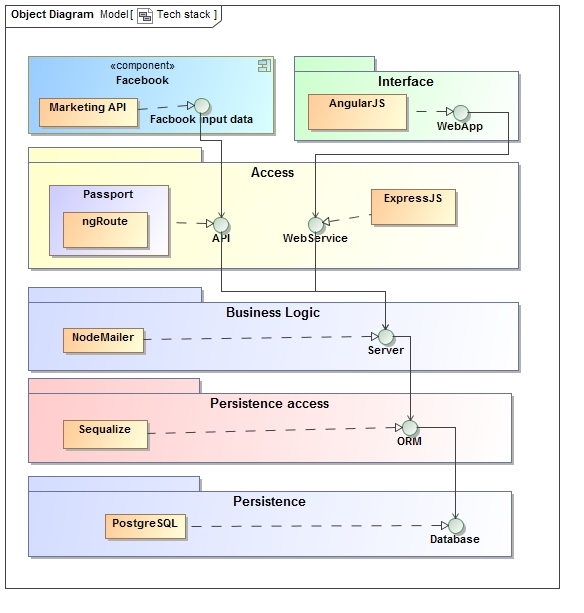
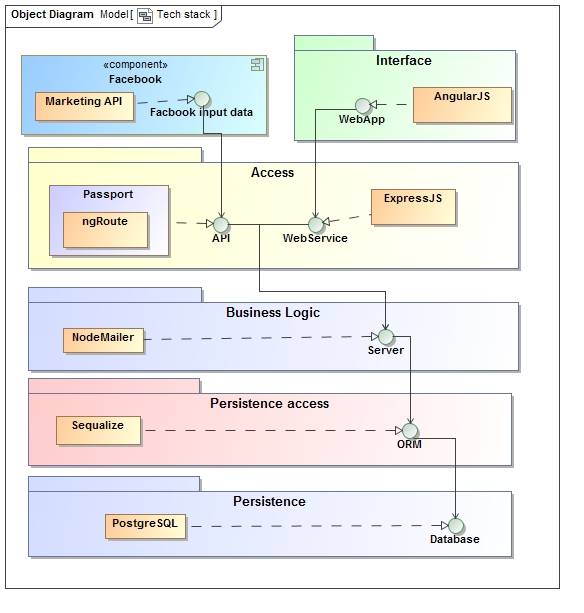
Updated diagrams

Changed region(s): [[0.0308, 0.062, 0.4932, 0.248], [0.4932, 0.031, 0.8938, 0.248], [0.0308, 0.6509, 0.8938, 0.7749]]

diff --git a/Documentation/ArchitectureSpecification/architectureSpecification.tex b/Documentation/ArchitectureSpecification/architectureSpecification.tex
@@ -40,7 +40,7 @@
 			\huge{
 			Architectural Requirements, Initial Architecture Design and Non-Functional Requirements\\
 			}
-			
+
 			\line(1,0){300}\\
 			[0.2cm]
 			\LARGE{Project: Insurance profiling from social media\\
@@ -51,8 +51,8 @@
 			\large
 			{
 			\begin{itemize}
-				\item 13054903 - Charl Jansen van Vuuren 
-				\item 10297902 - Bernhard Schuld      
+				\item 13054903 - Charl Jansen van Vuuren
+				\item 10297902 - Bernhard Schuld
 				\item 13044924 - Kevin Heritage
 				\item 13176545 - Quinton Weenink\\
 			\end{itemize}
@@ -68,17 +68,17 @@
 		%\centering
 		%\includegraphics[{imagename}
 		%\end{figure}\
-			
+
 	\end{titlepage}
 	\cleardoublepage
 	\tableofcontents
 	\cleardoublepage
-	
+
 		% Start of the revision history table
 	\begin{versionhistory}
   		\vhEntry{1.0}{27.05.2016}{CJvV,KH,QW}{Created}
   		\vhEntry{1.1}{27.07.2016}{CJvV,KH,QW}{Grammar errors, Introduction, Scope, Vision, Access channel, Quality requirements, Integration Requirements (API, Protocols, API Quality requirements), Architectural tactics(Security) and Architectural pattern changes}
-	\end{versionhistory}	
+	\end{versionhistory}
 
 
 %Quinton addition (Maybe just have a look at this and see if you can use it) This should be slightly more revised
@@ -86,7 +86,7 @@
 \section{Introduction}
  Insurance profiling and risk analysis often require large amounts of data to generate in-depth profiles, our project aims to eliminate the need for vast amounts of data gathering by utilising a user's social media information, based on advertisement form.
 
-\section{Scope of system} 
+\section{Scope of system}
 The project as it is currently specified is an application that will allow insurance companies the ability to get data from lead data provided via lead advertisements on Facebook.
 A user would fill in a Facebook advertisement to purchase short term insurance based on Facebook's advertisement analytics. \\
 This data will be used to charge the users for the insurance that they have signed up for while also providing the application with some basic data that can later be used to analyse the users and the data they provided. \\
@@ -100,7 +100,7 @@ The primary focus of this project is to generate risk statistics based on social
 
 \section{Architectural Requirements}
 	\subsection{Access channel requirements}
-	User: 
+	User:
 	\begin{enumerate}
 		\item A user will fill in an advertisement form on our Facebook with the information specified and submit this data.
 		\item The necessary data will be gathered and saved in the database.
@@ -108,7 +108,7 @@ The primary focus of this project is to generate risk statistics based on social
 		\item A sales person will contact the specified user with further instructions.
 	\end{enumerate}
 	\clearpage
-	Analyst: 
+	Analyst:
 	\begin{enumerate}
 		\item An analyst would log into the system with a required username and password authorization
 		\item Selection criteria to generate a report will be presented to the analyst.
@@ -122,8 +122,8 @@ The primary focus of this project is to generate risk statistics based on social
 		\item The website will be accessible via the majority of operating systems if such an operating system has access to a supported web-browser.
 		\item Facebook advertisement integration will be accessible via the normal Facebook access channels.
 	\end{itemize}
-	 
-	
+
+
 	\subsection{Quality Requirements}
 		\subsubsection{Performance}
 		\begin{itemize}
@@ -131,7 +131,7 @@ The primary focus of this project is to generate risk statistics based on social
 			\item Once the REST API call is made, it saves the user's data in our database, increasing the efficiency of future requests and processing of the data.
 			\item The need to do external API calls will be minimized, increasing performance.
 		\end{itemize}
-		 
+
 		\subsubsection{Security}\label{subsubsec:security}
 		\begin{itemize}
 			\item Security is our most important architectural requirement. A user's personal information is used to generate these risk profiles and as a result the user will trust that this information is not shared with other parties, and properly secured.
@@ -148,17 +148,17 @@ The primary focus of this project is to generate risk statistics based on social
 		\subsubsection{Integratability}\label{subsubsec:integratability}
 		\begin{itemize}
 			\item The project will integrate with Facebook and utilise it as the primary data provider.
-			\item The ability to integrate with other social media platforms should be considered and modularised accordingly, to ensure seamless future integration. 
+			\item The ability to integrate with other social media platforms should be considered and modularised accordingly, to ensure seamless future integration.
 			\item The ability to change the risk analysis algorithm as needed should be considered.
 			\item Integration includes the connection from the website to the profiling engine and back to the website as a report.
 			\item Integration with Facebook's advertisements API forms a major part of this release.
-		\end{itemize}		
+		\end{itemize}
 
 		\subsubsection{Reliability}
 		\begin{itemize}
 			\item Since our solution is mainly web-based, the platform as a service (PaaS) offered by Heroku will ensure the website is always up to date and reliable.
 		\end{itemize}
-		
+
 		\subsubsection{Maintainability}
 			The system will make use of a database with massive amounts of data.\\ To ensure optimal performance, this data will need to be maintained and normalised on a regular basis.
 
@@ -184,18 +184,18 @@ The primary focus of this project is to generate risk statistics based on social
 			\item The Facebook login API aims to improve efficiency for the user as this eliminates the need to manually fill in various fields on a form.
 			\item Further integration with the Facebook ad system will increase usability even more, as the user will be able to generate a report from their Facebook dashboard, without the need to log in to our website.
 		\end{itemize}
-		
+
 		\subsubsection{Flexibility}
 		\begin{itemize}
-			\item The system must be usable on any internet browser (including mobile phone browsers). 
-			\item The system must include the ability to change the risk analysis algorithm. Insurance profilers can use this to their advantage to generate more thorough risk profiles. 
+			\item The system must be usable on any internet browser (including mobile phone browsers).
+			\item The system must include the ability to change the risk analysis algorithm. Insurance profilers can use this to their advantage to generate more thorough risk profiles.
 		\end{itemize}
-		
+
 		\subsubsection{Compatibility}
 		\begin{itemize}
 			\item The use of Travis CI tests ensures the latest features are compatible with the specified versions of NodeJS.
 			\item Unit tests constantly test the system's compatibility as part of the continuous integration model.
-		\end{itemize} 
+		\end{itemize}
 
 	\subsection{Integration requirements}
 		\subsubsection{API specifications}
@@ -221,7 +221,7 @@ The primary focus of this project is to generate risk statistics based on social
 					\end{verbatim}
 				\item Once again the app secret should be kept safe and hidden from users
 			\end{itemize}
-			
+
 			%ADD PAGE API CALLS MAYBE%
 
 		\subsubsection{Protocols}
@@ -230,7 +230,7 @@ The primary focus of this project is to generate risk statistics based on social
 			\item HTTP/HTTPS - (Secure) Hypertext Transfer Protocol
 			\item TCP/IP - Transmission Control Protocol/Internet Protocol
 			\item FTP(Possibly) - File Transfer Protocol
-			\item SSL - Secure Socket Layer 
+			\item SSL - Secure Socket Layer
 			\item SMTP - Simple Mail Transfer Protocol(with  SSL)
 		\end{itemize}
 		The request for comment pages of these protocols can be accessed via:
@@ -243,8 +243,8 @@ The primary focus of this project is to generate risk statistics based on social
 			\item\href{https://tools.ietf.org/html/rfc6101}{SSL}
 			\item\href{https://tools.ietf.org/html/rfc821}{SMTP}
 		\end{itemize}
-		
-		
+
+
 		\subsubsection{Integration Quality Requirements}
 		As mentioned in \ref{subsubsec:integratability}, integration with Facebook will be a major feature, as such this integration is subject to quality requirements in the form of:
 		\begin{itemize}
@@ -255,7 +255,7 @@ The primary focus of this project is to generate risk statistics based on social
 			\item Maintainability - The system must be maintained on a bi-yearly basis as to ensure the latest version of the API is used and no deprecated functions are used. The use of deprecated functions can cause problems in future use of the system.
 		\end{itemize}
 
-	
+
 	\subsection{Architecture Constraints}
 	Our client limited our technologies to:
 	\begin{itemize}
@@ -268,25 +268,25 @@ The primary focus of this project is to generate risk statistics based on social
 		\begin{itemize}
 		\item PHP code in any way.
 		\item MySQL, NoSQL database systems.
-		\end{itemize}	
+		\end{itemize}
 	Other constraints in terms of architecture include:
 	\begin{itemize}
 		\item Browser independence, to ensure any web-client can make use thereof.
 		\item Operating system independence.
 		\item The system should be as time efficient as possible to ensure a user gets a quote in less than 5 minutes.
 		\end{itemize}
-	
-	
+
+
 	\section{Initial Architecture Design}
 
-	The below mentioned architecture specifies an initial architecture design from a high-level, and of the system as it is currently understood at this stage in development and design. Any and all architectural components, tactics and responsibilities listed are subject to change and are at a level which attempts to provide the best description of what is currently intended to be the insurance profiling system. 
+	The below mentioned architecture specifies an initial architecture design from a high-level, and of the system as it is currently understood at this stage in development and design. Any and all architectural components, tactics and responsibilities listed are subject to change and are at a level which attempts to provide the best description of what is currently intended to be the insurance profiling system.
 
 	\subsection{Architectural tactics}
 
 	Due to the fact that the underlying architecture has of yet not been clearly specified, the investigation into the best suited tactics for this architecture can not be concretely concluded. The following is by no means a representation of the implemented tactics but it is currently what best helps the system achieve its quality requirements. The below listed tactics are currently the main tactics we aim to implement or the responsibility of the dependencies we aim to utilise.
-	
+
 		\subsubsection{Modifiability and Flexibility}
-		What is certain, is that the above mentioned quality requirements will need to be addressed in a manner which allows for a system that is both highly modular and configurable, in order to allow the analysts of the data set to properly assess and tweak the tools that we aim to provide to them. 
+		What is certain, is that the above mentioned quality requirements will need to be addressed in a manner which allows for a system that is both highly modular and configurable, in order to allow the analysts of the data set to properly assess and tweak the tools that we aim to provide to them.
 
 		\begin{itemize}
 			\item Flexibility support: automated builds, automated testing and automated environment configuration
@@ -334,11 +334,11 @@ The primary focus of this project is to generate risk statistics based on social
 	\subsection{Infrastructure}
 
 	\subsubsection{Architectural (structural) patterns}
-	In order to promote flexibility as well as testability, the layered architectural pattern will be used. This allows for future development to change tactics (business logic tactics) and allows for the decoupling of different functions. This is crucial in order for the system to remain within its architectural concern boundaries, which will rely heavily on a modular configurable system. This, in conjunction with the Model-View-Controller pattern will make for a understandable and testable system, with proper modularization. MVC includes the ability to generate new views for the web based front-end efficiently. 
+	In order to promote flexibility as well as testability, the layered architectural pattern will be used. This allows for future development to change tactics (business logic tactics) and allows for the decoupling of different functions. This is crucial in order for the system to remain within its architectural concern boundaries, which will rely heavily on a modular configurable system. This, in conjunction with the Model-View-Controller pattern will make for a understandable and testable system, with proper modularization. MVC includes the ability to generate new views for the web based front-end efficiently.
 
 	\begin{figure}[H]
 		\includegraphics[width=\textwidth]{images/obj__Tech_stack.jpg}  \\
-		\caption{Use Case Diagram : Insurance Profiling}
+		\caption{Tech Stack : Insurance Profiling}
 		\end{figure}
 
 	\subsubsection{Concepts and constraints for application components}
@@ -346,6 +346,6 @@ The primary focus of this project is to generate risk statistics based on social
 	Application components will not be deployed at the first level of granularity. Any application components will be hosted within the architectural components.
 
 
-	
+
 
 \end{document}

diff --git a/Documentation/FunctionalSpecification/functionalSpecification.tex b/Documentation/FunctionalSpecification/functionalSpecification.tex
@@ -84,7 +84,7 @@
 	\begin{versionhistory}
   		\vhEntry{1.0}{27.05.2016}{CJvV,KH,QW}{Original Architectural document without Functional requirements}
   		\vhEntry{1.1}{27.07.2016}{CJvV,KH,QW}{Added Functional requirements and separated Architectural requirements}
-	\end{versionhistory}	
+	\end{versionhistory}
 
 \section{Functional requirements and application design}
 	\subsection{User subsystem}
@@ -117,15 +117,15 @@
 		\subsubsection{Services Contracts}
 
 		\begin{figure}[H]
-		\includegraphics[width=\textwidth]{images/obj__createCustomer.jpg}  \\
+		\includegraphics[width=\textwidth]{images/obj__Service_Contract__addLeadData.jpg}  \\
 		\caption{Service Contract : addLeadData}
 		\end{figure}
 
 		\subsubsection{Required Functionality}
 
 		\begin{figure}[H]
-		\includegraphics[width=\textwidth]{images/Incomplete.png}  \\
-		\caption{Use Case Diagram : Publications}
+		\includegraphics[width=\textwidth]{images/obj__Required_Functionality__addLeadData.jpg}  \\
+		\caption{Required Functionality : addLeadData}
 		\end{figure}
 
 		\subsubsection{Process specifications}
@@ -133,10 +133,10 @@
 		\begin{figure}[H]
 		\includegraphics[width=\textwidth]{images/Incomplete.png}  \\
 		\caption{Use Case Diagram : Publications}
-		\end{figure}git 
+		\end{figure}git
 
 
-	\subsection{Admin}
+	\subsection{Analytics}
 
 	\subsubsection{Use cases}
 
@@ -148,31 +148,17 @@
 		\begin{flushleft}
 		\textbf{Critical}
 			\begin{itemize}
-					\item addPublication
-					\item editPublication
-					\item getPublication
-					\item addPublicationStatus
-					\item getPublicationStatus
-					\item assignGoal
-					\item unassignGoal
-					\item accreditResearcher
-					\item unaccreditResearcher
-					\item linkGroup
-					\item unlinkGroup
+					\item todo
 			\end{itemize}
 
 		\textbf{Important}
 			\begin{itemize}
-					\item editPublicationStatus
-					\item getPublicationProgression
-					\item editPublicationProgression
-					\item editPublicationStatus
+					\item todo
 			\end{itemize}
 
 		\textbf{Nice-To-Have}
 			\begin{itemize}
-					\item getDepartmentPublications
-					\item getGroupPublications
+					\item todo
 			\end{itemize}
 	\end{flushleft}
 
